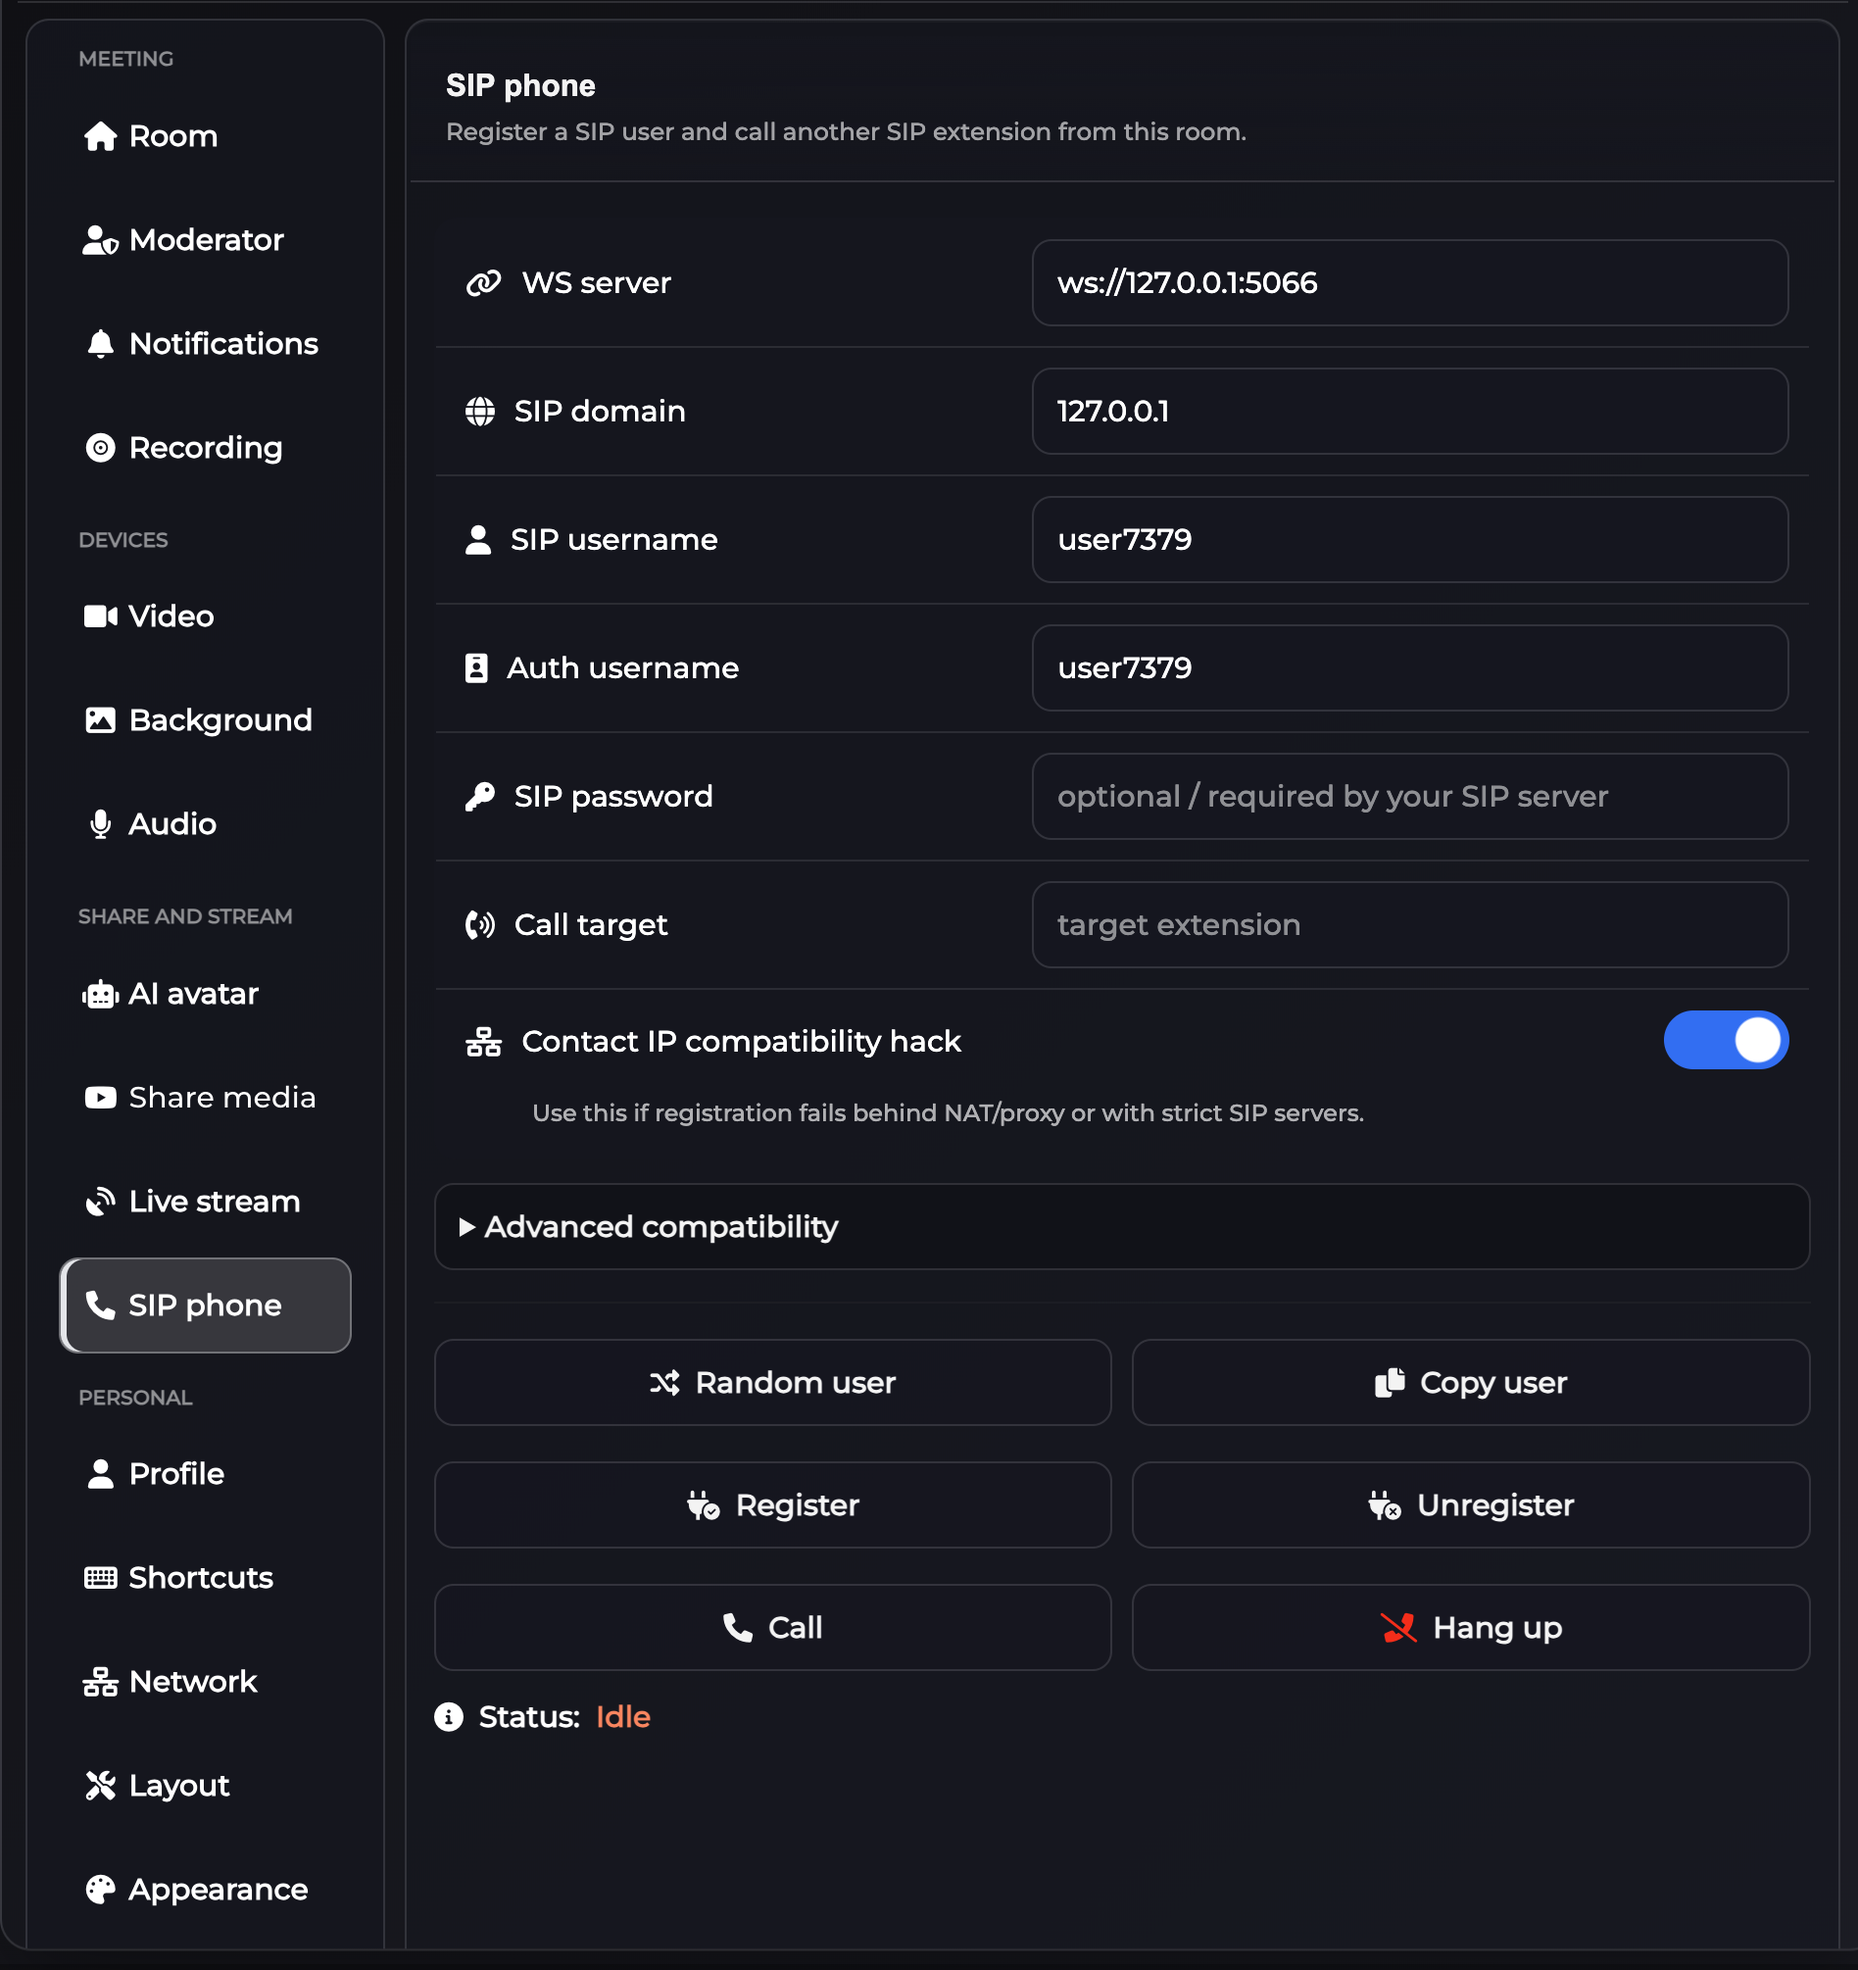
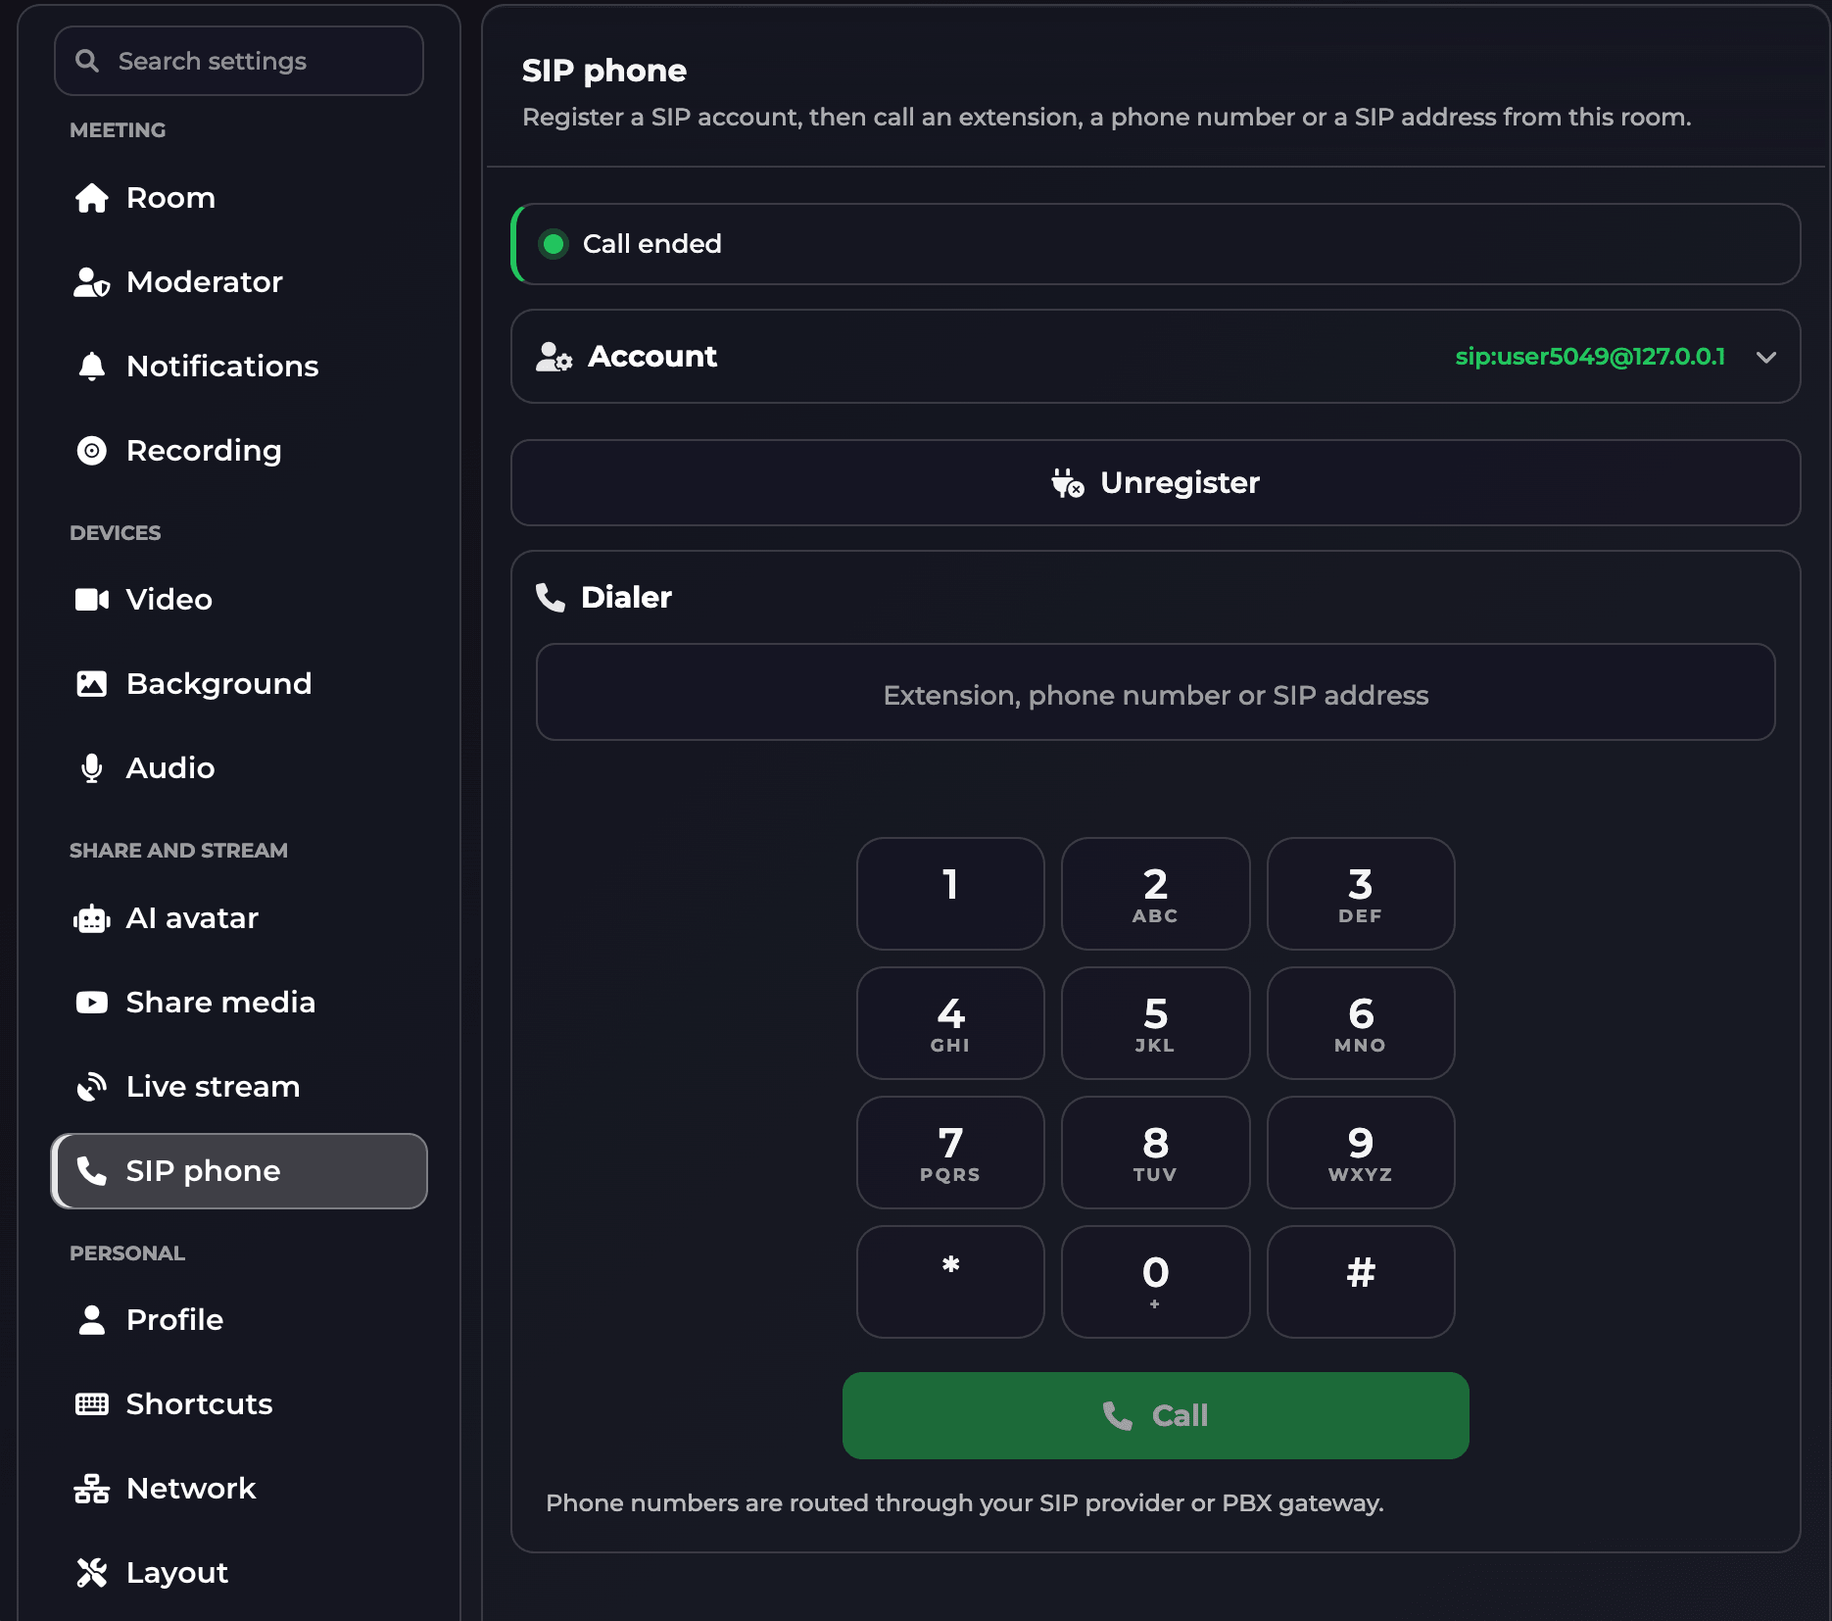
[mirotalkdocs] - feat(sfu): update sip docs

diff --git a/docs/mirotalk-sfu/sip.md b/docs/mirotalk-sfu/sip.md
@@ -1,6 +1,6 @@
 # 📞 SIP phone (Experimental)
 
-Use the built-in **SIP phone** panel in MiroTalk SFU to register SIP users from inside a room and place extension-to-extension calls.
+Use the built-in **SIP phone** panel in MiroTalk SFU to register a SIP account from inside a room, then call an **extension**, a **phone number** or a **SIP address**.
 
 This feature is currently marked as **experimental** and is intended as a practical MVP for SIP interop testing.
 
@@ -32,6 +32,12 @@ You can also test the in-room SIP phone MVP directly in MiroTalk SFU:
 3. Join a room with two browsers/users.
 4. Open **Settings → SIP phone**, register random users, and call each other.
 
+The in-room SIP phone uses this demo server by default (`ws://<host>:5066`, SIP domain `<host>`).
+
+!!! info "WebSocket contact aliasing"
+
+    The demo Kamailio config aliases WebSocket contacts (`add_contact_alias` / `handle_ruri_alias`) so in-dialog `ACK`/`BYE`/re-`INVITE` requests reach browser clients, which advertise unroutable Contacts (e.g. `*.invalid` / `192.0.2.x`). Apply the same approach on your own Kamailio/OpenSIPS setup if calls connect but hang-up or media renegotiation fails.
+
 ---
 
 ## Compatibility
@@ -44,6 +50,7 @@ For non-demo deployments, ensure your SIP server provides:
 - Correct SIP domain/realm for registration
 - WebRTC-compatible SIP profile/transports
 - DTLS-SRTP / ICE / NAT handling suitable for browser endpoints
+- A PSTN trunk (SIP provider or PBX gateway) if you want to call real phone numbers
 
 !!! warning "Experimental scope"
 
@@ -51,25 +58,72 @@ For non-demo deployments, ensure your SIP server provides:
 
 ---
 
-## In-room SIP phone fields
+## SIP phone panel
 
-The SIP phone panel includes the following common parameters:
+The panel is organized in a few sections:
+
+- **Status bar**: shows the current state (idle, registering, registered, incoming, in call, error) with a color indicator and a live **call timer** during active calls.
+- **Incoming call banner**: shows the caller with **Accept** / **Reject** buttons (a toast notification is also shown).
+- **Account**: SIP registration settings. The card collapses automatically after a successful registration and shows the registered identity (`sip:user@domain`); fields are locked while registered.
+- **Dialer**: call target input, keypad, call controls and recent numbers.
+
+### Account fields
 
 | Field | Description | Example |
 | --- | --- | --- |
 | WS server | SIP WebSocket endpoint used by the browser SIP stack. | `ws://127.0.0.1:5066` or `wss://sip.example.com:7443` |
 | SIP domain | SIP realm/domain sent in SIP registration and INVITE flows. | `127.0.0.1` |
-| SIP username | SIP account/extension to register. | `user8165` |
-| Auth username | Authentication username (can match or differ from SIP username). | `user8165` |
+| SIP username | SIP account/extension to register. Use the inline buttons to generate a **random user** or **copy** the current one. | `user8165` |
+| Auth username | Authentication username (optional, defaults to SIP username). | `user8165` |
 | SIP password | Optional in open/local test setups, required when server auth is enabled. | `••••••••` |
-| Call target | Destination extension or SIP user to call. | `user6449` |
+| Contact IP compatibility hack | Toggles SIP.js `hackIpInContact` for better interoperability across SIP servers. | on/off |
 
-Buttons:
+**Advanced compatibility** (collapsible):
 
-- **Random user**: generates test users quickly
-- **Copy user**: copies current user details for easier second-browser tests
-- **Register / Unregister**: controls SIP registration lifecycle
-- **Call / Hang up**: starts and ends active SIP calls
+| Field | Description | Example |
+| --- | --- | --- |
+| Display name | Optional caller display name. | `Alice` |
+| Outbound proxy / route set | Optional outbound proxy or route set. | `sip:proxy.example.com;lr` |
+| Phone number gateway | Domain used for phone-number calls (defaults to SIP domain). Extensions keep using the SIP domain. | `pstn.provider.com` |
+| Register expires (s) | Registration expiry in seconds. | `600` |
+
+Use **Register / Unregister** to control the SIP registration lifecycle.
+
+### Dialer
+
+The **call target** input accepts an extension, a phone number or a SIP address. The detected type and the resulting SIP URI are previewed under the input:
+
+| You type | Detected as | Called URI |
+| --- | --- | --- |
+| `1001`, `alice` | Extension | `sip:1001@<SIP domain>` |
+| `+1 (555) 123-4567`, `0039 06 1234 5678` | Phone number | `sip:+15551234567@<phone number gateway or SIP domain>` |
+| `tel:+15551234567` | Phone number | same as above |
+| `bob@example.org`, `sip:bob@example.org` | SIP address | used as-is |
+
+- Phone-number formatting (spaces, dashes, dots, parentheses) is stripped.
+- Values starting with `+` or with **7+ digits** are treated as phone numbers; shorter ones as extensions.
+- Invalid targets (e.g. `12+34`) are rejected.
+
+Dialer controls:
+
+- **Keypad**: tap digits, `*` and `#`; **hold `0`** to insert `+`.
+- **Backspace**: delete the last character; **hold** to clear the input.
+- **Enter** in the target input places the call.
+- **Call / Mute / Hang up**: start a call, mute/unmute your microphone, and end the call.
+- **DTMF**: during an active call, the keypad (or keyboard keys `0-9`, `*`, `#`) sends DTMF tones (RTP, with SIP `INFO` fallback).
+- **Recent**: the last 6 dialed targets are shown as quick-dial chips.
+
+!!! note "Calling real phone numbers"
+
+    Calling a real phone number requires a SIP provider or PBX with a PSTN trunk. Set **Advanced compatibility → Phone number gateway** to the provider's domain to route phone numbers there, while extensions keep using the SIP domain.
+
+    With the Kamailio demo (no PSTN trunk), a phone number only rings if a user registered with that number, e.g. register as `5551234567` and dial `(555) 123-4567`.
+
+### Saved settings
+
+- Server settings (WS server, SIP domain, display name, outbound proxy, phone number gateway, register expires, contact hack) are remembered in the browser (`localStorage`).
+- The SIP username and auth username are kept **per tab** (`sessionStorage`), so two tabs never register the same user.
+- The **SIP password is never stored**.
 
 ---
 
@@ -78,10 +132,13 @@ Buttons:
 1. Launch SFU and SIP demo stack.
 2. Open room in Browser A and Browser B.
 3. In both browsers, open **Settings → SIP phone**.
-4. Click **Random user**, then **Register** on both sides.
-5. Copy Browser B user and paste into Browser A **Call target**.
+4. Click **Random user** (if needed), then **Register** on both sides.
+5. Copy Browser B user and paste into Browser A **Call target** (or type it on the keypad).
 6. Press **Call** in Browser A.
-7. Verify two-way audio and call teardown with **Hang up**.
+7. In Browser B, click **Accept** on the incoming call banner.
+8. Verify two-way audio, **Mute**, DTMF and the call timer, then end the call with **Hang up**.
+
+To test phone-number dialing with the demo, register Browser B as `5551234567` and dial `(555) 123-4567` from Browser A.
 
 ---
 
@@ -97,13 +154,23 @@ Buttons:
 
 - Confirm both users are successfully registered first.
 - Verify target extension exists and is reachable.
+- Check the detected target type and URI preview under the call target input.
+- For phone numbers, verify the **Phone number gateway** and your provider's PSTN trunk / dial plan.
 - Check SIP routing rules (`INVITE` path) in your SIP server.
+
+### Call connects but hang-up / ACK fails
+
+- Browser clients advertise unroutable Contacts; make sure your proxy aliases WebSocket contacts (see the Kamailio note above) so in-dialog requests reach the browser.
 
 ### No media / one-way audio
 
 - Review NAT traversal and ICE candidate reachability.
 - Validate DTLS-SRTP and RTP profile compatibility.
 - Confirm UDP/TCP media ports and firewall policies allow media traffic.
+
+### DTMF not received
+
+- Ensure your SIP server/IVR accepts RFC 4733 RTP events or SIP `INFO` (`application/dtmf-relay`).
 
 ### WSS errors in browser
 
